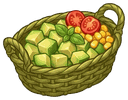
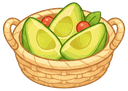
feat(food): 整果四级合成链并重绘牛油果与整果资源
将四线整果合并为 avocado→菠萝→火龙果→西瓜 的 L1–L4 合成链，农田仅产 L1；重绘整果与牛油果果切 v6 资源，并迁移旧存档 itemId。

diff --git a/src/config/ItemConfig.ts b/src/config/ItemConfig.ts
@@ -1,7 +1,7 @@
 /**
  * 物品配置
  *
- * 产品线：花系（鲜花/绿植各13级、花束10级 + 包装中间品4级）+ 饮品：蝴蝶/甜品各10级、冷饮8级
+ * 产品线：花系（鲜花/绿植各13级、花束10级 + 包装中间品4级）+ 饮品：蝴蝶/甜品各10级、冷饮8级 + 食物：整果4级（牛油果→菠萝→火龙果→西瓜）+ 果切各3级
  * 工具线：园艺6级、包装5级、捕虫网/冷饮/烘焙各5级；工具1–2级仅合成，其后可产出
  * 宝箱：5级；红包：4级（散落花愿利是，双击入账花愿）；钻石袋 / 体力箱工具：各 3 级（散落货币块）
  */
@@ -45,10 +45,8 @@ export enum DrinkLine {
 }
 
 export enum FoodLine {
-  FRUIT_AVOCADO = 'fruit_avocado',
-  FRUIT_WATERMELON = 'fruit_watermelon',
-  FRUIT_PINEAPPLE = 'fruit_pineapple',
-  FRUIT_DRAGONFRUIT = 'fruit_dragonfruit',
+  /** 整果合成线 L1 牛油果 → L2 菠萝 → L3 火龙果 → L4 西瓜 */
+  FRUIT = 'fruit',
   CUT_AVOCADO = 'cut_avocado',
   CUT_WATERMELON = 'cut_watermelon',
   CUT_PINEAPPLE = 'cut_pineapple',
@@ -82,7 +80,7 @@ export const TOOL_TO_PRODUCT_LINE: Record<ToolLine, { category: Category; line: 
   [ToolLine.BUTTERFLY_NET]: { category: Category.DRINK, line: DrinkLine.BUTTERFLY },
   [ToolLine.MIXER]:   { category: Category.DRINK,  line: DrinkLine.COLD },
   [ToolLine.BAKE]:    { category: Category.DRINK,  line: DrinkLine.DESSERT },
-  [ToolLine.FARM]:    { category: Category.FOOD, line: FoodLine.FRUIT_AVOCADO },
+  [ToolLine.FARM]:    { category: Category.FOOD, line: FoodLine.FRUIT },
   [ToolLine.FRUIT_CUT]: { category: Category.FOOD, line: FoodLine.CUT_AVOCADO },
 };
 
@@ -148,10 +146,7 @@ const DRINK_DATA: [DrinkLine, string[]][] = [
 ];
 
 const FOOD_DATA: [FoodLine, string[]][] = [
-  [FoodLine.FRUIT_AVOCADO, ['牛油果']],
-  [FoodLine.FRUIT_WATERMELON, ['西瓜']],
-  [FoodLine.FRUIT_PINEAPPLE, ['菠萝']],
-  [FoodLine.FRUIT_DRAGONFRUIT, ['火龙果']],
+  [FoodLine.FRUIT, ['牛油果', '菠萝', '火龙果', '西瓜']],
   [FoodLine.CUT_AVOCADO, ['半切牛油果', '木盘牛油果', '牛油果陶碗']],
   [FoodLine.CUT_WATERMELON, ['西瓜角', '竹盘西瓜', '缤纷果篮']],
   [FoodLine.CUT_PINEAPPLE, ['菠萝环片', '竹盘菠萝', '菠萝船']],
@@ -184,19 +179,44 @@ const TOOL_DATA: [ToolLine, string[]][] = [
   ]],
 ];
 
-export const FRUIT_WHOLE_TO_CUT_LINE: Record<string, FoodLine> = {
-  [FoodLine.FRUIT_AVOCADO]: FoodLine.CUT_AVOCADO,
-  [FoodLine.FRUIT_WATERMELON]: FoodLine.CUT_WATERMELON,
-  [FoodLine.FRUIT_PINEAPPLE]: FoodLine.CUT_PINEAPPLE,
-  [FoodLine.FRUIT_DRAGONFRUIT]: FoodLine.CUT_DRAGONFRUIT,
+/** 整果等级 → 对应果切线（L1 牛油果 … L4 西瓜） */
+export const FRUIT_LEVEL_TO_CUT_LINE: Readonly<Record<number, FoodLine>> = {
+  1: FoodLine.CUT_AVOCADO,
+  2: FoodLine.CUT_PINEAPPLE,
+  3: FoodLine.CUT_DRAGONFRUIT,
+  4: FoodLine.CUT_WATERMELON,
 };
 
+/** @deprecated 使用 getCutLineForWholeFruit */
+export const FRUIT_WHOLE_TO_CUT_LINE: Record<string, FoodLine> = {};
+
+/** 旧版四线整果 itemId → 新整果合成线 itemId */
+export const LEGACY_WHOLE_FRUIT_ITEM_ID_MAP: Readonly<Record<string, string>> = {
+  food_fruit_avocado_1: 'food_fruit_1',
+  food_fruit_pineapple_1: 'food_fruit_2',
+  food_fruit_dragonfruit_1: 'food_fruit_3',
+  food_fruit_watermelon_1: 'food_fruit_4',
+};
+
+export function migrateLegacyItemId(itemId: string): string {
+  return LEGACY_WHOLE_FRUIT_ITEM_ID_MAP[itemId] ?? itemId;
+}
+
 export function isWholeFruitLine(line: string): boolean {
-  return Object.prototype.hasOwnProperty.call(FRUIT_WHOLE_TO_CUT_LINE, line);
+  return line === FoodLine.FRUIT;
+}
+
+export function isWholeFruitItem(def: ItemDef): boolean {
+  return def.category === Category.FOOD && def.line === FoodLine.FRUIT;
+}
+
+export function getCutLineForWholeFruit(def: ItemDef): FoodLine | null {
+  if (!isWholeFruitItem(def)) return null;
+  return FRUIT_LEVEL_TO_CUT_LINE[def.level] ?? null;
 }
 
 export function isFruitCutLine(line: string): boolean {
-  return Object.values(FRUIT_WHOLE_TO_CUT_LINE).includes(line as FoodLine);
+  return Object.values(FRUIT_LEVEL_TO_CUT_LINE).includes(line as FoodLine);
 }
 
 export function fruitCutLevelForToolLevel(toolLevel: number): number {
@@ -607,10 +627,7 @@ export function getMergeChainName(itemId: string): string {
     [DrinkLine.BUTTERFLY]: '蝴蝶标本',
     [DrinkLine.COLD]: '冷饮',
     [DrinkLine.DESSERT]: '甜品',
-    [FoodLine.FRUIT_AVOCADO]: '牛油果',
-    [FoodLine.FRUIT_WATERMELON]: '西瓜',
-    [FoodLine.FRUIT_PINEAPPLE]: '菠萝',
-    [FoodLine.FRUIT_DRAGONFRUIT]: '火龙果',
+    [FoodLine.FRUIT]: '整果',
     [FoodLine.CUT_AVOCADO]: '牛油果果切',
     [FoodLine.CUT_WATERMELON]: '西瓜果切',
     [FoodLine.CUT_PINEAPPLE]: '菠萝果切',

diff --git a/src/managers/SaveManager.ts b/src/managers/SaveManager.ts
@@ -20,7 +20,7 @@ import { PersistService } from '@/core/PersistService';
 import { CdnAssetService } from '@/core/CdnAssetService';
 import { BOARD_COLS, BOARD_TOTAL } from '@/config/Constants';
 import { BOARD_PRESETS, CellState } from '@/config/BoardLayout';
-import { ITEM_DEFS } from '@/config/ItemConfig';
+import { ITEM_DEFS, migrateLegacyItemId } from '@/config/ItemConfig';
 import { BACKEND_ANON_ID_KEY, BACKEND_TOKEN_KEY, CLOUD_SYNC_META_KEY } from '@/config/CloudConfig';
 
 declare const wx: any;
@@ -197,6 +197,24 @@ class SaveManagerClass {
             '(存档:', data.fingerprint, '当前:', CONFIG_FINGERPRINT, ')');
           this._clearStorage();
           return false;
+        }
+      }
+
+      // 整果四线 → 单线 L1–L4 合成链
+      for (const cell of data.board) {
+        if (cell.itemId) {
+          const migrated = migrateLegacyItemId(cell.itemId);
+          if (migrated !== cell.itemId) {
+            console.warn('[Save] 整果 itemId 迁移:', cell.itemId, '→', migrated);
+            cell.itemId = migrated;
+          }
+        }
+      }
+      if (data.warehouse?.items) {
+        for (const entry of data.warehouse.items) {
+          if (entry?.itemId) {
+            entry.itemId = migrateLegacyItemId(entry.itemId);
+          }
         }
       }
 

diff --git a/src/config/BuildingConfig.ts b/src/config/BuildingConfig.ts
@@ -219,18 +219,14 @@ const PLANT_OUTCOMES_TOOL_L7: ToolProduceOutcome[] = [
   { category: Category.FLOWER, line: FlowerLine.GREEN, level: 7, weight: 5 },
 ];
 
-// ═══════════════ 农田工具（tool_farm）→ 单级整果 ═══════════════
+// ═══════════════ 农田工具（tool_farm）→ 整果 L1 ═══════════════
 
 const FARM_OUTCOMES_TOOL_L3: ToolProduceOutcome[] = [
-  { category: Category.FOOD, line: FoodLine.FRUIT_AVOCADO, level: 1, weight: 55 },
-  { category: Category.FOOD, line: FoodLine.FRUIT_WATERMELON, level: 1, weight: 45 },
+  { category: Category.FOOD, line: FoodLine.FRUIT, level: 1, weight: 100 },
 ];
 
 const FARM_OUTCOMES_TOOL_L4: ToolProduceOutcome[] = [
-  { category: Category.FOOD, line: FoodLine.FRUIT_AVOCADO, level: 1, weight: 30 },
-  { category: Category.FOOD, line: FoodLine.FRUIT_WATERMELON, level: 1, weight: 28 },
-  { category: Category.FOOD, line: FoodLine.FRUIT_PINEAPPLE, level: 1, weight: 24 },
-  { category: Category.FOOD, line: FoodLine.FRUIT_DRAGONFRUIT, level: 1, weight: 18 },
+  { category: Category.FOOD, line: FoodLine.FRUIT, level: 1, weight: 100 },
 ];
 
 const plantToolTemplate = (): Omit<ToolDef, 'itemId' | 'level'>[] => [
@@ -315,7 +311,7 @@ const farmToolTemplate = (): Omit<ToolDef, 'itemId' | 'level'>[] => [
   {
     toolLine: ToolLine.FARM,
     produceCategory: Category.FOOD,
-    produceLine: FoodLine.FRUIT_AVOCADO,
+    produceLine: FoodLine.FRUIT,
     canProduce: false,
     produceTable: [],
     cooldown: 0,
@@ -325,7 +321,7 @@ const farmToolTemplate = (): Omit<ToolDef, 'itemId' | 'level'>[] => [
   {
     toolLine: ToolLine.FARM,
     produceCategory: Category.FOOD,
-    produceLine: FoodLine.FRUIT_AVOCADO,
+    produceLine: FoodLine.FRUIT,
     canProduce: false,
     produceTable: [],
     cooldown: 0,
@@ -335,7 +331,7 @@ const farmToolTemplate = (): Omit<ToolDef, 'itemId' | 'level'>[] => [
   {
     toolLine: ToolLine.FARM,
     produceCategory: Category.FOOD,
-    produceLine: FoodLine.FRUIT_AVOCADO,
+    produceLine: FoodLine.FRUIT,
     canProduce: true,
     produceTable: [],
     produceOutcomes: FARM_OUTCOMES_TOOL_L3,
@@ -346,7 +342,7 @@ const farmToolTemplate = (): Omit<ToolDef, 'itemId' | 'level'>[] => [
   {
     toolLine: ToolLine.FARM,
     produceCategory: Category.FOOD,
-    produceLine: FoodLine.FRUIT_AVOCADO,
+    produceLine: FoodLine.FRUIT,
     canProduce: true,
     produceTable: [],
     produceOutcomes: FARM_OUTCOMES_TOOL_L4,

diff --git a/src/managers/BoardManager.ts b/src/managers/BoardManager.ts
@@ -13,7 +13,8 @@ import {
   findItemId,
   fruitCutLevelForToolLevel,
   getDowngradeResultId,
-  FRUIT_WHOLE_TO_CUT_LINE,
+  getCutLineForWholeFruit,
+  isWholeFruitItem,
   getLuckyCoinDirection,
   getMergeResultId,
   isCrystalBallItem,
@@ -201,8 +202,8 @@ class BoardManagerClass {
     const dstDef = ITEM_DEFS.get(dst.itemId);
     if (!srcDef || !dstDef) return { kind: 'not_applicable' };
 
-    const srcIsFruit = srcDef.category === Category.FOOD && FRUIT_WHOLE_TO_CUT_LINE[srcDef.line];
-    const dstIsFruit = dstDef.category === Category.FOOD && FRUIT_WHOLE_TO_CUT_LINE[dstDef.line];
+    const srcIsFruit = isWholeFruitItem(srcDef);
+    const dstIsFruit = isWholeFruitItem(dstDef);
     const srcIsCutTool = srcDef.category === Category.BUILDING && srcDef.line === ToolLine.FRUIT_CUT;
     const dstIsCutTool = dstDef.category === Category.BUILDING && dstDef.line === ToolLine.FRUIT_CUT;
 
@@ -221,7 +222,7 @@ class BoardManagerClass {
       return { kind: 'fail', toast: '订单锁定中的物品不能加工' };
     }
 
-    const targetLine = FRUIT_WHOLE_TO_CUT_LINE[fruitDef.line];
+    const targetLine = getCutLineForWholeFruit(fruitDef);
     const targetLevel = fruitCutLevelForToolLevel(toolDef.level);
     if (!targetLine || targetLevel <= 0) return { kind: 'not_applicable' };
 
@@ -255,8 +256,8 @@ class BoardManagerClass {
     const dstDef = ITEM_DEFS.get(dst.itemId);
     if (!srcDef || !dstDef) return false;
 
-    const srcIsFruit = srcDef.category === Category.FOOD && !!FRUIT_WHOLE_TO_CUT_LINE[srcDef.line];
-    const dstIsFruit = dstDef.category === Category.FOOD && !!FRUIT_WHOLE_TO_CUT_LINE[dstDef.line];
+    const srcIsFruit = isWholeFruitItem(srcDef);
+    const dstIsFruit = isWholeFruitItem(dstDef);
     const srcIsCutTool = srcDef.category === Category.BUILDING && srcDef.line === ToolLine.FRUIT_CUT;
     const dstIsCutTool = dstDef.category === Category.BUILDING && dstDef.line === ToolLine.FRUIT_CUT;
     return (srcIsFruit && dstIsCutTool) || (srcIsCutTool && dstIsFruit);

diff --git a/src/utils/TextureCache.ts b/src/utils/TextureCache.ts
@@ -443,11 +443,11 @@ const ITEMS_IMAGE_MAP: Record<string, string> = {
   tool_fruit_cut_3: 'subpkg_items/images/tools/fruit_cut/tool_fruit_cut_3.png',
   tool_fruit_cut_4: 'subpkg_items/images/tools/fruit_cut/tool_fruit_cut_4.png',
 
-  // ---- 食物：整果（4 种单级）----
-  food_fruit_avocado_1: 'subpkg_items/images/food/whole/food_fruit_avocado_1.png',
-  food_fruit_watermelon_1: 'subpkg_items/images/food/whole/food_fruit_watermelon_1.png',
-  food_fruit_pineapple_1: 'subpkg_items/images/food/whole/food_fruit_pineapple_1.png',
-  food_fruit_dragonfruit_1: 'subpkg_items/images/food/whole/food_fruit_dragonfruit_1.png',
+  // ---- 食物：整果合成线 L1–L4 ----
+  food_fruit_1: 'subpkg_items/images/food/whole/food_fruit_1.png',
+  food_fruit_2: 'subpkg_items/images/food/whole/food_fruit_2.png',
+  food_fruit_3: 'subpkg_items/images/food/whole/food_fruit_3.png',
+  food_fruit_4: 'subpkg_items/images/food/whole/food_fruit_4.png',
 
   // ---- 食物：果切线（4 线 × 3 级）----
   food_cut_avocado_1: 'subpkg_items/images/food/cut/food_cut_avocado_1.png',

diff --git a/src/config/ItemCollectionBlurbs.ts b/src/config/ItemCollectionBlurbs.ts
@@ -125,10 +125,10 @@ const ITEM_UNLOCK_BLURB_EXTRA: Record<string, string> = {
   tool_fruit_cut_3: '果切盘一上桌，颜色也变成了招牌。',
   tool_fruit_cut_4: '高级果切台出手，整果直接变成精致拼盘。',
 
-  food_fruit_avocado_1: '深绿一颗，摸上去有点糙，切开才见奶黄。',
-  food_fruit_watermelon_1: '圆滚滚的大西瓜，切开就是夏天。',
-  food_fruit_pineapple_1: '金黄菠萝带着小冠，热带气息很醒目。',
-  food_fruit_dragonfruit_1: '玫红外皮像鳞片，整颗就很有热带味。',
+  food_fruit_1: '深绿一颗，摸上去有点糙，切开才见奶黄。',
+  food_fruit_2: '金黄菠萝带着小冠，热带气息很醒目。',
+  food_fruit_3: '玫红外皮像鳞片，整颗就很有热带味。',
+  food_fruit_4: '圆滚滚的大西瓜，切开就是夏天。',
   food_cut_avocado_1: '半切露大核，绿皮黄肉一眼分得清。',
   food_cut_avocado_2: '木盘扇排牛油果片，配青柠角很清爽。',
   food_cut_avocado_3: '粗陶碗盛牛油果丁，圣女果和玉米粒点彩。',

diff --git a/src/gameobjects/board/ItemView.ts b/src/gameobjects/board/ItemView.ts
@@ -598,16 +598,13 @@ export class ItemView extends PIXI.Container {
       case DrinkLine.BUTTERFLY: return COLORS.DRINK_BUTTERFLY;
       case DrinkLine.COLD: return COLORS.DRINK_COLD;
       case DrinkLine.DESSERT: return COLORS.DRINK_DESSERT;
-      case FoodLine.FRUIT_AVOCADO:
+      case FoodLine.FRUIT:
       case FoodLine.CUT_AVOCADO:
         return 0x6a9e3a;
-      case FoodLine.FRUIT_WATERMELON:
       case FoodLine.CUT_WATERMELON:
         return 0x4caf63;
-      case FoodLine.FRUIT_PINEAPPLE:
       case FoodLine.CUT_PINEAPPLE:
         return 0xf5c542;
-      case FoodLine.FRUIT_DRAGONFRUIT:
       case FoodLine.CUT_DRAGONFRUIT:
         return 0xe0568a;
       default: return 0x999999;

diff --git a/src/gameobjects/ui/CollectionPanel.ts b/src/gameobjects/ui/CollectionPanel.ts
@@ -34,10 +34,7 @@ const COLLECTION_PAGES: CollectionPage[] = [
   { collectionCat: CollectionCategory.DRINK,  itemCategory: Category.DRINK,  line: 'butterfly',     title: '蝴蝶' },
   { collectionCat: CollectionCategory.DRINK,  itemCategory: Category.DRINK,  line: 'cold',          title: '冷饮' },
   { collectionCat: CollectionCategory.DRINK,  itemCategory: Category.DRINK,  line: 'dessert',       title: '甜品' },
-  { collectionCat: CollectionCategory.FOOD, itemCategory: Category.FOOD, line: FoodLine.FRUIT_AVOCADO, title: '牛油果' },
-  { collectionCat: CollectionCategory.FOOD, itemCategory: Category.FOOD, line: FoodLine.FRUIT_WATERMELON, title: '西瓜' },
-  { collectionCat: CollectionCategory.FOOD, itemCategory: Category.FOOD, line: FoodLine.FRUIT_PINEAPPLE, title: '菠萝' },
-  { collectionCat: CollectionCategory.FOOD, itemCategory: Category.FOOD, line: FoodLine.FRUIT_DRAGONFRUIT, title: '火龙果' },
+  { collectionCat: CollectionCategory.FOOD, itemCategory: Category.FOOD, line: FoodLine.FRUIT, title: '整果' },
   { collectionCat: CollectionCategory.FOOD, itemCategory: Category.FOOD, line: FoodLine.CUT_AVOCADO, title: '牛油果果切' },
   { collectionCat: CollectionCategory.FOOD, itemCategory: Category.FOOD, line: FoodLine.CUT_WATERMELON, title: '西瓜果切' },
   { collectionCat: CollectionCategory.FOOD, itemCategory: Category.FOOD, line: FoodLine.CUT_PINEAPPLE, title: '菠萝果切' },

diff --git a/scripts/build_fruit_cut_assets.py b/scripts/build_fruit_cut_assets.py
@@ -5,8 +5,8 @@
 用法（仓库根）：
   python3 scripts/build_fruit_cut_assets.py --sheet farm ../game_assets/huahua/assets/raw/tool_line_farm_nb2.png
   python3 scripts/build_fruit_cut_assets.py --sheet fruit_cut ../game_assets/huahua/assets/raw/tool_line_fruit_cut_nb2.png
-  python3 scripts/build_fruit_cut_assets.py --sheet whole ../game_assets/huahua/assets/raw/food_whole_fruits_nb2.png
-  python3 scripts/build_fruit_cut_assets.py --sheet avocado_line ../game_assets/huahua/assets/raw/food_avocado_line_v4_nb2.png
+  python3 scripts/build_fruit_cut_assets.py --sheet whole_v4 ../game_assets/huahua/assets/raw/food_whole_fruits_v4_nb2.png
+  python3 scripts/build_fruit_cut_assets.py --sheet avocado_line_v6 ../game_assets/huahua/assets/raw/food_avocado_line_v6_nb2.png
   python3 scripts/build_fruit_cut_assets.py --sheet dragonfruit_line ../game_assets/huahua/assets/raw/food_dragonfruit_line_v4_nb2.png
   python3 scripts/build_fruit_cut_assets.py --all   # 处理 raw/ 下全部约定文件名
 """
@@ -68,10 +68,34 @@ SHEETS: dict[str, dict] = {
         "rembg": "isnet-anime",
         "padding": 8,
         "outputs": [
-            ("food_fruit_avocado_1", _ITEMS / "food/whole/food_fruit_avocado_1.png"),
-            ("food_fruit_watermelon_1", _ITEMS / "food/whole/food_fruit_watermelon_1.png"),
-            ("food_fruit_pineapple_1", _ITEMS / "food/whole/food_fruit_pineapple_1.png"),
-            ("food_fruit_dragonfruit_1", _ITEMS / "food/whole/food_fruit_dragonfruit_1.png"),
+            ("food_fruit_1", _ITEMS / "food/whole/food_fruit_1.png"),
+            ("food_fruit_4", _ITEMS / "food/whole/food_fruit_4.png"),
+            ("food_fruit_2", _ITEMS / "food/whole/food_fruit_2.png"),
+            ("food_fruit_3", _ITEMS / "food/whole/food_fruit_3.png"),
+        ],
+    },
+    "whole_v4": {
+        "raw": "food_whole_fruits_v4_nb2.png",
+        "n": 3,
+        "rembg": "isnet-anime",
+        "padding": 8,
+        "outputs": [
+            ("food_fruit_1", _ITEMS / "food/whole/food_fruit_1.png"),
+            ("food_fruit_2", _ITEMS / "food/whole/food_fruit_2.png"),
+            ("food_fruit_3", _ITEMS / "food/whole/food_fruit_3.png"),
+        ],
+    },
+    "avocado_line_v6": {
+        "raw": "food_avocado_line_v6_nb2.png",
+        "n": 4,
+        "grid": (2, 2),
+        "rembg": "isnet-anime",
+        "padding": 8,
+        "outputs": [
+            ("food_fruit_1", _ITEMS / "food/whole/food_fruit_1.png"),
+            ("food_cut_avocado_1", _ITEMS / "food/cut/food_cut_avocado_1.png"),
+            ("food_cut_avocado_2", _ITEMS / "food/cut/food_cut_avocado_2.png"),
+            ("food_cut_avocado_3", _ITEMS / "food/cut/food_cut_avocado_3.png"),
         ],
     },
     "avocado_line": {
@@ -82,7 +106,7 @@ SHEETS: dict[str, dict] = {
         "rembg": "isnet-anime",
         "padding": 8,
         "outputs": [
-            ("food_fruit_avocado_1", _ITEMS / "food/whole/food_fruit_avocado_1.png"),
+            ("food_fruit_1", _ITEMS / "food/whole/food_fruit_1.png"),
             ("food_cut_avocado_1", _ITEMS / "food/cut/food_cut_avocado_1.png"),
             ("food_cut_avocado_2", _ITEMS / "food/cut/food_cut_avocado_2.png"),
             ("food_cut_avocado_3", _ITEMS / "food/cut/food_cut_avocado_3.png"),
@@ -95,7 +119,7 @@ SHEETS: dict[str, dict] = {
         "rembg": "isnet-anime",
         "padding": 8,
         "outputs": [
-            ("food_fruit_dragonfruit_1", _ITEMS / "food/whole/food_fruit_dragonfruit_1.png"),
+            ("food_fruit_3", _ITEMS / "food/whole/food_fruit_3.png"),
             ("food_cut_dragonfruit_1", _ITEMS / "food/cut/food_cut_dragonfruit_1.png"),
             ("food_cut_dragonfruit_2", _ITEMS / "food/cut/food_cut_dragonfruit_2.png"),
             ("food_cut_dragonfruit_3", _ITEMS / "food/cut/food_cut_dragonfruit_3.png"),